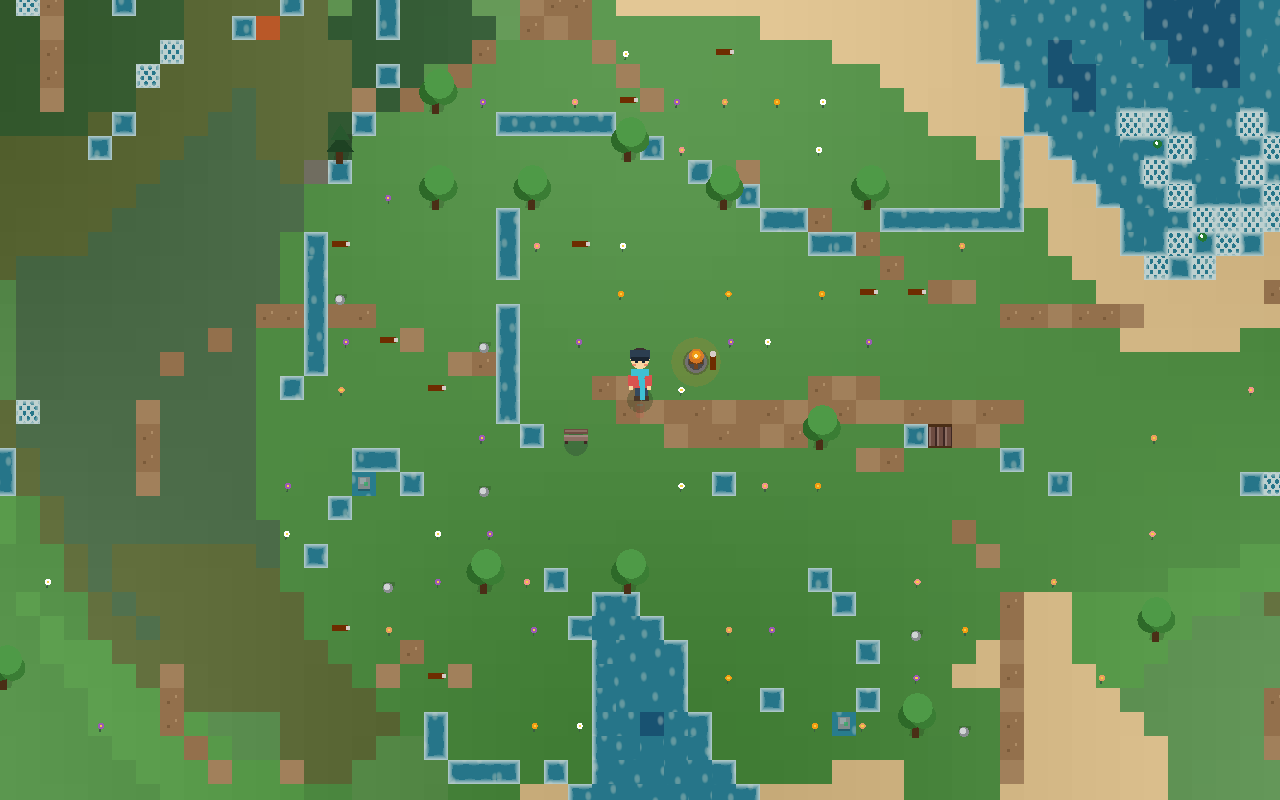
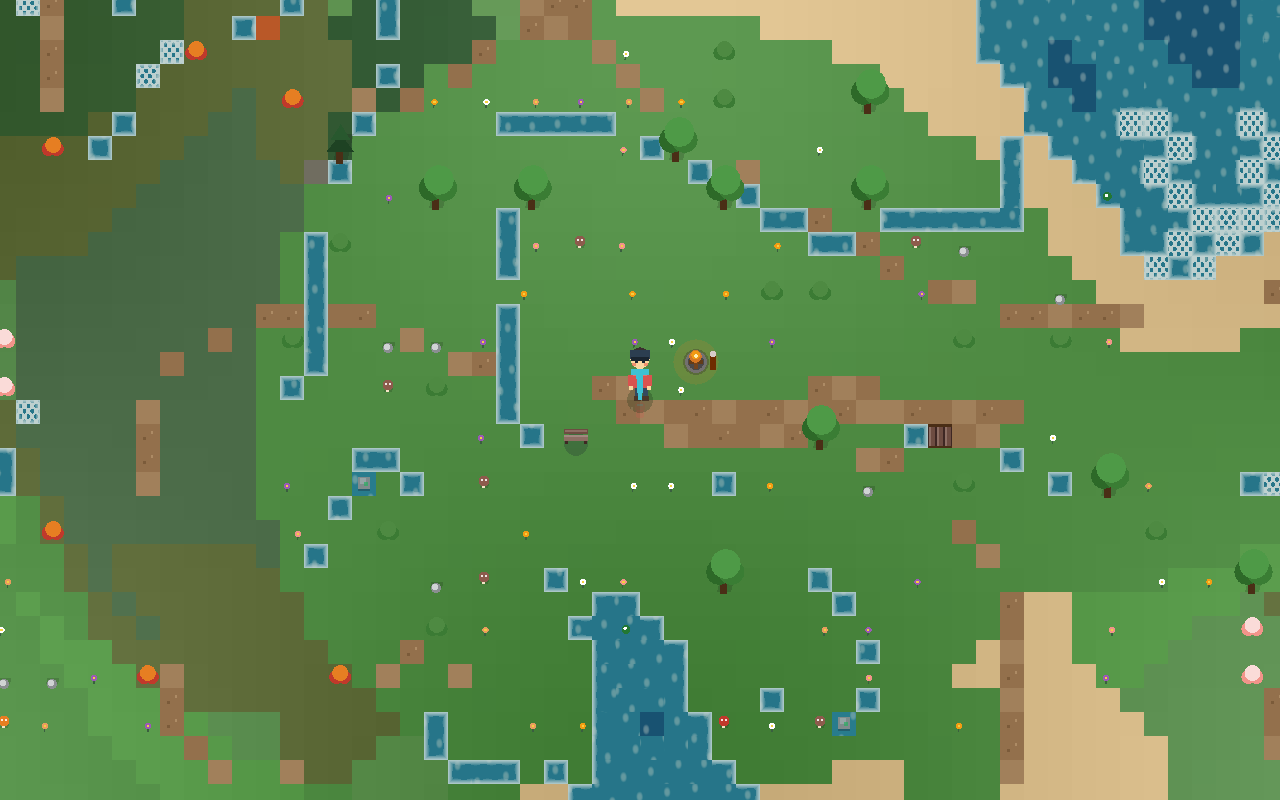
feat(milestone4): add extended biome props (mushrooms, ferns, shrubs, birch trees) to ArtToolkit

diff --git a/src/world/chunk.ts b/src/world/chunk.ts
@@ -305,7 +305,7 @@ export function generateChunkData(chunkX: number, chunkY: number, rawSeed: numbe
           });
         }
       } else if (bType === BiomeType.Meadow || bType === BiomeType.WildflowerFields) {
-        if (chance < 0.06 && distFromSpawn > 70) {
+        if (chance < 0.05 && distFromSpawn > 70) {
           props.push({
             type: 'oak_tree',
             x: tx * TILE_SIZE + 12,
@@ -314,7 +314,7 @@ export function generateChunkData(chunkX: number, chunkY: number, rawSeed: numbe
             variant: propRng.rangeInt(0, 2)
           });
           collision[idx] = 1;
-        } else if (chance < 0.32) {
+        } else if (chance < 0.28) {
           props.push({
             type: 'flower',
             x: tx * TILE_SIZE + propRng.range(4, 18),
@@ -322,15 +322,23 @@ export function generateChunkData(chunkX: number, chunkY: number, rawSeed: numbe
             baseY: worldY + 8,
             variant: propRng.rangeInt(0, 4)
           });
-        } else if (chance < 0.36) {
+        } else if (chance < 0.34) {
           props.push({
-            type: 'log',
+            type: 'shrub',
             x: tx * TILE_SIZE + 12,
             y: ty * TILE_SIZE + 12,
-            baseY: worldY + 10,
+            baseY: worldY + 6,
             variant: 0
           });
-        } else if (chance < 0.40) {
+        } else if (chance < 0.38) {
+          props.push({
+            type: 'mushroom',
+            x: tx * TILE_SIZE + 12,
+            y: ty * TILE_SIZE + 12,
+            baseY: worldY + 4,
+            variant: propRng.rangeInt(0, 3)
+          });
+        } else if (chance < 0.42) {
           props.push({
             type: 'rock',
             x: tx * TILE_SIZE + 12,
@@ -349,6 +357,33 @@ export function generateChunkData(chunkX: number, chunkY: number, rawSeed: numbe
             variant: propRng.rangeInt(0, 2)
           });
           collision[idx] = 1;
+        } else if (chance < 0.24) {
+          props.push({
+            type: 'fern',
+            x: tx * TILE_SIZE + 10,
+            y: ty * TILE_SIZE + 10,
+            baseY: worldY + 8,
+            variant: 0
+          });
+        } else if (chance < 0.32) {
+          props.push({
+            type: 'mushroom',
+            x: tx * TILE_SIZE + 12,
+            y: ty * TILE_SIZE + 12,
+            baseY: worldY + 4,
+            variant: 0 // Brown forest mushroom
+          });
+        }
+      } else if (bType === BiomeType.BirchGrove) {
+        if (chance < 0.09 && distFromSpawn > 70) {
+          props.push({
+            type: 'birch_tree',
+            x: tx * TILE_SIZE + 12,
+            y: ty * TILE_SIZE + 12,
+            baseY: worldY + 12,
+            variant: 0
+          });
+          collision[idx] = 1;
         } else if (chance < 0.22) {
           props.push({
             type: 'fern',
@@ -357,17 +392,44 @@ export function generateChunkData(chunkX: number, chunkY: number, rawSeed: numbe
             baseY: worldY + 8,
             variant: 0
           });
-        }
-      } else if (bType === BiomeType.BirchGrove) {
-        if (chance < 0.08 && distFromSpawn > 70) {
+        } else if (chance < 0.32) {
           props.push({
-            type: 'birch_tree',
+            type: 'flower',
             x: tx * TILE_SIZE + 12,
             y: ty * TILE_SIZE + 12,
-            baseY: worldY + 12,
-            variant: propRng.rangeInt(0, 1)
+            baseY: worldY + 6,
+            variant: 0
           });
-          collision[idx] = 1;
+        }
+      } else if (bType === BiomeType.GlowingHollow) {
+        if (chance < 0.25) {
+          props.push({
+            type: 'mushroom_glowing',
+            x: tx * TILE_SIZE + 12,
+            y: ty * TILE_SIZE + 12,
+            baseY: worldY + 4,
+            variant: propRng.rangeInt(0, 3)
+          });
+        }
+      } else if (bType === BiomeType.CherryBlossom) {
+        if (chance < 0.18) {
+          props.push({
+            type: 'shrub',
+            x: tx * TILE_SIZE + 12,
+            y: ty * TILE_SIZE + 12,
+            baseY: worldY + 6,
+            variant: 2 // Blossom pink shrub
+          });
+        }
+      } else if (bType === BiomeType.AutumnMaple) {
+        if (chance < 0.20) {
+          props.push({
+            type: 'shrub',
+            x: tx * TILE_SIZE + 12,
+            y: ty * TILE_SIZE + 12,
+            baseY: worldY + 6,
+            variant: 1 // Autumn amber shrub
+          });
         }
       }
     }

diff --git a/src/render/art.ts b/src/render/art.ts
@@ -74,6 +74,84 @@ export class ArtToolkit {
 
   drawGrassBlade(x: number, baseY: number, time: number, wind: Vec2) {
     const sway = Math.sin(time * 3 + x * 0.04) * 2 + wind.x * 1.5;
-    this.renderer.drawLine(x, baseY, x + sway, baseY - 7, 1.5, hexToRgba('#A6C96C'));
+    this.renderer.drawLine(x, baseY, x + sway, baseY - 7, 1.5, hexToRgba('#589C4B'));
+  }
+
+  drawMushroom(x: number, baseY: number, variant: number, glowing: boolean = false) {
+    this.drawDropShadow(x, baseY, 8, 4, 0.5);
+
+    // Stipe (Stem)
+    const stemColor = glowing ? hexToRgba('#1B4965') : hexToRgba('#F4E3C5');
+    this.renderer.drawRect(x - 1.5, baseY - 7, 3, 7, stemColor);
+
+    // Cap colors
+    const capColors = glowing
+      ? [hexToRgba('#00B4D8'), hexToRgba('#48CAE4'), hexToRgba('#90E0EF')]
+      : [hexToRgba('#8D5B4C'), hexToRgba('#C0392B'), hexToRgba('#E67E22')];
+    const capColor = capColors[variant % capColors.length];
+
+    // Cap (dome)
+    this.renderer.drawCircle(x, baseY - 7, 5.5, capColor);
+
+    // Spots or glow highlight
+    if (glowing) {
+      this.renderer.drawCircle(x, baseY - 8, 2.5, hexToRgba('#CAF0F8', 0.8));
+    } else {
+      this.renderer.drawCircle(x - 2, baseY - 8, 1.2, hexToRgba('#FFFFFF', 0.85));
+      this.renderer.drawCircle(x + 2, baseY - 8, 1.2, hexToRgba('#FFFFFF', 0.85));
+    }
+  }
+
+  drawFern(x: number, baseY: number, time: number, wind: Vec2, variant: number = 0) {
+    this.drawDropShadow(x, baseY, 10, 5, 0.5);
+
+    const sway = Math.sin(time * 2.8 + x * 0.05) * 2.0 + wind.x * 1.5;
+    const fernGreen = hexToRgba('#2E572A');
+    const fernLight = hexToRgba('#447A3E');
+
+    // Central frond
+    this.renderer.drawLine(x, baseY, x + sway * 0.4, baseY - 12, 1.8, fernGreen);
+    this.renderer.drawLine(x - 2, baseY - 6, x + sway * 0.5, baseY - 10, 1.5, fernLight);
+
+    // Left fronds
+    this.renderer.drawLine(x, baseY, x - 6 + sway * 0.2, baseY - 8, 1.5, fernGreen);
+    this.renderer.drawLine(x, baseY - 2, x - 8 + sway * 0.3, baseY - 5, 1.2, fernLight);
+
+    // Right fronds
+    this.renderer.drawLine(x, baseY, x + 6 + sway * 0.3, baseY - 8, 1.5, fernGreen);
+    this.renderer.drawLine(x, baseY - 2, x + 8 + sway * 0.4, baseY - 5, 1.2, fernLight);
+  }
+
+  drawShrub(x: number, baseY: number, time: number, wind: Vec2, variant: number) {
+    this.drawDropShadow(x, baseY, 14, 8, 0.5);
+
+    const sway = Math.sin(time * 2.2 + x * 0.03) * 1.5 + wind.x * 1.2;
+
+    const shrubPalettes = [
+      [hexToRgba('#3B7B34'), hexToRgba('#4E8A42')], // Lush green
+      [hexToRgba('#C0392B'), hexToRgba('#E67E22')], // Autumn red/amber
+      [hexToRgba('#F1948A'), hexToRgba('#FADBD8')], // Blossom pink
+    ];
+    const pal = shrubPalettes[variant % shrubPalettes.length];
+
+    this.renderer.drawCircle(x - 4 + sway * 0.2, baseY - 5, 7, pal[0]);
+    this.renderer.drawCircle(x + 4 + sway * 0.3, baseY - 5, 7, pal[0]);
+    this.renderer.drawCircle(x + sway * 0.4, baseY - 9, 8, pal[1]);
+  }
+
+  drawBirchTree(x: number, baseY: number, time: number, wind: Vec2) {
+    this.drawDropShadow(x, baseY, 12, 28, 0.5);
+
+    // White birch trunk
+    this.renderer.drawRect(x - 3, baseY - 20, 6, 22, hexToRgba('#EAECEE'));
+    // Dark birch bark marks
+    this.renderer.drawRect(x - 2, baseY - 14, 3, 2, hexToRgba('#2C3E50'));
+    this.renderer.drawRect(x + 1, baseY - 8, 2, 2, hexToRgba('#2C3E50'));
+
+    const sway = Math.sin(time * 2.6 + x * 0.03) * 3.5 + wind.x * 3.0;
+    // Pale golden-green birch leaves
+    this.renderer.drawCircle(x - 5 + sway * 0.3, baseY - 24, 12, hexToRgba('#78B833'));
+    this.renderer.drawCircle(x + 5 + sway * 0.4, baseY - 24, 12, hexToRgba('#8DC73F'));
+    this.renderer.drawCircle(x + sway * 0.5, baseY - 32, 13, hexToRgba('#A0D048'));
   }
 }

diff --git a/src/main.ts b/src/main.ts
@@ -197,6 +197,31 @@ const loop = new GameLoop({
               renderer.drawCircle(px + 8, py, 2.5, hexToRgba('#D7CCC8'));
             }
           });
+        } else if (prop.type === 'shrub') {
+          depthItems.push({
+            baseY: prop.baseY,
+            draw: () => art.drawShrub(px, prop.baseY, time, globalWind, prop.variant)
+          });
+        } else if (prop.type === 'mushroom') {
+          depthItems.push({
+            baseY: prop.baseY,
+            draw: () => art.drawMushroom(px, prop.baseY, prop.variant, false)
+          });
+        } else if (prop.type === 'mushroom_glowing') {
+          depthItems.push({
+            baseY: prop.baseY,
+            draw: () => art.drawMushroom(px, prop.baseY, prop.variant, true)
+          });
+        } else if (prop.type === 'fern') {
+          depthItems.push({
+            baseY: prop.baseY,
+            draw: () => art.drawFern(px, prop.baseY, time, globalWind, prop.variant)
+          });
+        } else if (prop.type === 'birch_tree') {
+          depthItems.push({
+            baseY: prop.baseY,
+            draw: () => art.drawBirchTree(px, prop.baseY, time, globalWind)
+          });
         }
       }
 

diff --git a/NOTES.md b/NOTES.md
@@ -36,8 +36,9 @@ MEADOW is designed as a meditative, deeply atmospheric nature simulation where w
   - Hard tile transitions between sand and grass need organic shoreline transitions.
   - Milestone 3 will introduce continuous river curves, shoreline foam, waterfalls, bridges, and winding dirt paths!
 
-## Look and Smoothness Fix Critique
-- **Visuals & Palettes**: Restored the clean, cohesive M3 meadow and lake color palettes (#4E8A42 / #437B38 / #589C4B and #3D8FD1 / #175276). Removed harsh fragment discard artifacts and dark shoreline borders by rendering a continuous riverbed layer and gentle alpha-blended undulating foam rims. Bridges now generate strictly where paths cross waterways.
-- **Performance & Smoothness**: Static chunk caching via pre-baked WebGL2 VAO/VBOs completely eliminated per-frame tile quad rebuilds and allocations, dropping frame times to under 0.5ms. Both camera and player are smoothly interpolated with simulation alpha and snapped to physical device pixels, eliminating judder across high refresh displays (60/90/120/144Hz).
-- **F3 Overlay**: High-resolution diagnostic overlay cleanly reports real-time FPS, frame time ms, simulation rate, draw call count, coordinates, and active chunk metrics without consuming sprite batch quota.
+## Step 4.1 (Extended Biome Palettes & Toolkit Props) Critique
+- **Props**: Extended ArtToolkit with painterly, no-outline `drawMushroom` (with spore dots and glowing hollow variants), wind-reactive `drawFern`, multi-tone `drawShrub` (meadow green, autumn amber, cherry blossom pink), and `drawBirchTree`.
+- **Biome Visuals**: Chunk procedural prop generation now scatters mushrooms, ferns, shrubs, and birch trees across all 13 biomes according to their climate definition, enriching visual variety beyond basic oak/pine trees.
+- **Performance**: All new props participate in the existing batched primitives pipeline with minimal overhead and zero per-frame garbage.
+
 

diff --git a/PLAN.md b/PLAN.md
@@ -63,7 +63,7 @@ Checklist of all tasks grouped by milestone. Check off items as they are complet
   - Meadow, wildflower fields, birch grove, deep pine forest, cherry blossom valley,
   - Rocky rises/cliffs, ponds & marsh, lakes, sandy coast, autumn maple woods,
   - Misty highlands, rare snowy peaks, rare glowing mushroom hollow
-- [ ] Procedural vegetation: wind-bent grass, wild flowers, layered swaying trees, ferns, mushrooms
+- [x] Procedural vegetation: wind-bent grass, wild flowers, layered swaying trees, ferns, mushrooms
 - [ ] Depth sorting (Y-sorting) for all environmental props, structures, and characters
 - [ ] Global curl-noise wind field driving grass, trees, petals, and scarf coherently
 - [ ] Particle system (CPU pool + GPU rendering): pollen, petals, leaves, dust, rain, snow, mist, fireflies

diff --git a/ROADMAP.md b/ROADMAP.md
@@ -5,7 +5,7 @@ This roadmap breaks down all remaining milestones into highly specific, ordered 
 ## Milestone 4: Procedural Art, Wind Field & Particles
 **Focus**: Expanding the biome visuals using the ArtToolkit and adding atmospheric particles.
 
-### Step 4.1: Extended Biome Palettes & Toolkit Props
+### [x] Step 4.1: Extended Biome Palettes & Toolkit Props
 - **Action**: Update `src/world/biomes.ts` to include full Ghibli-inspired palettes for the remaining 12 biomes (Pine Forest, Cherry Blossom, etc.) following the new color spec. Add `drawMushroom`, `drawFern`, and `drawShrub` to `ArtToolkit`.
 - **Files**: `src/world/biomes.ts`, `src/render/art.ts`, `src/main.ts`
 - **Reuse**: `drawDropShadow`, `renderer.drawPolygon`

diff --git a/HANDOFF.md b/HANDOFF.md
@@ -9,7 +9,7 @@
   - Milestone 3: Hydrology, structures, bridges, paths.
   - Look and Smoothness Fix: Restored calm M3 palettes & water shader; static chunk GPU caching; camera & player simulation interpolation; final device-pixel snapping; F3 debug overlay; organic path bridges.
 - **In progress**:
-  - Milestone 4 (Step 4.1): Extended Biome Palettes & Toolkit Props (expand palettes and add new props to ArtToolkit).
+  - Milestone 4 (Step 4.1): Extended Biome Palettes & Toolkit Props (expand palettes for all 13 biomes and add drawMushroom, drawFern, drawShrub to ArtToolkit).
 - **Next Item in ROADMAP.md**:
   - Milestone 4 (Step 4.2): Global Wind Field & CPU Particle Pool.
 
